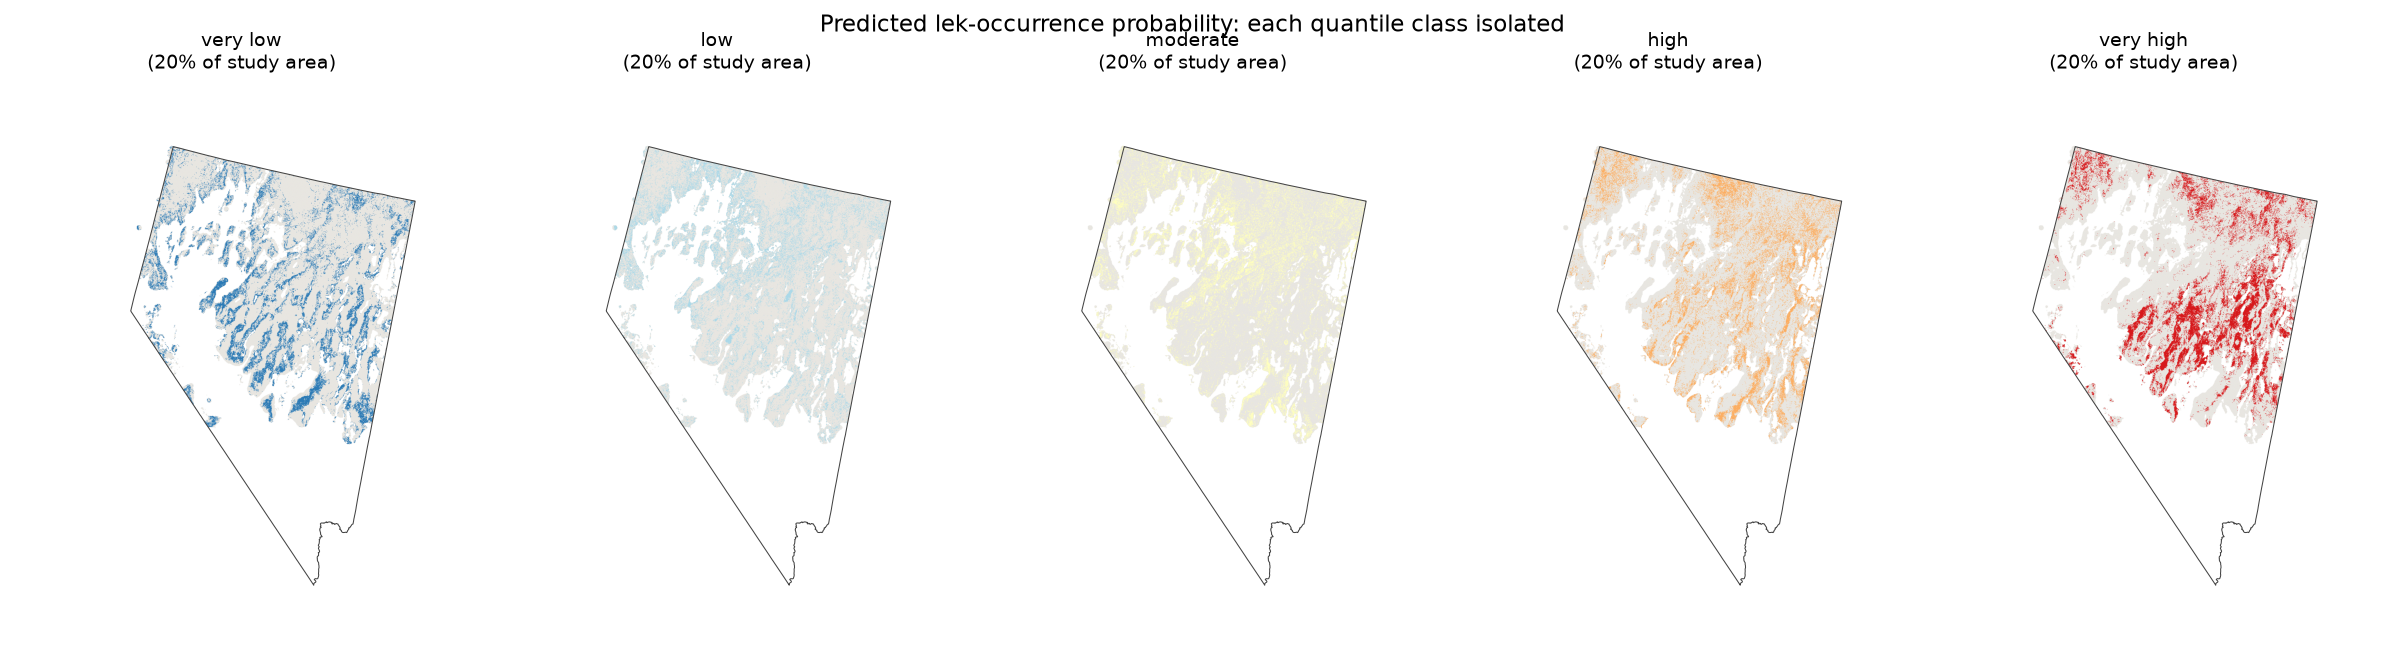
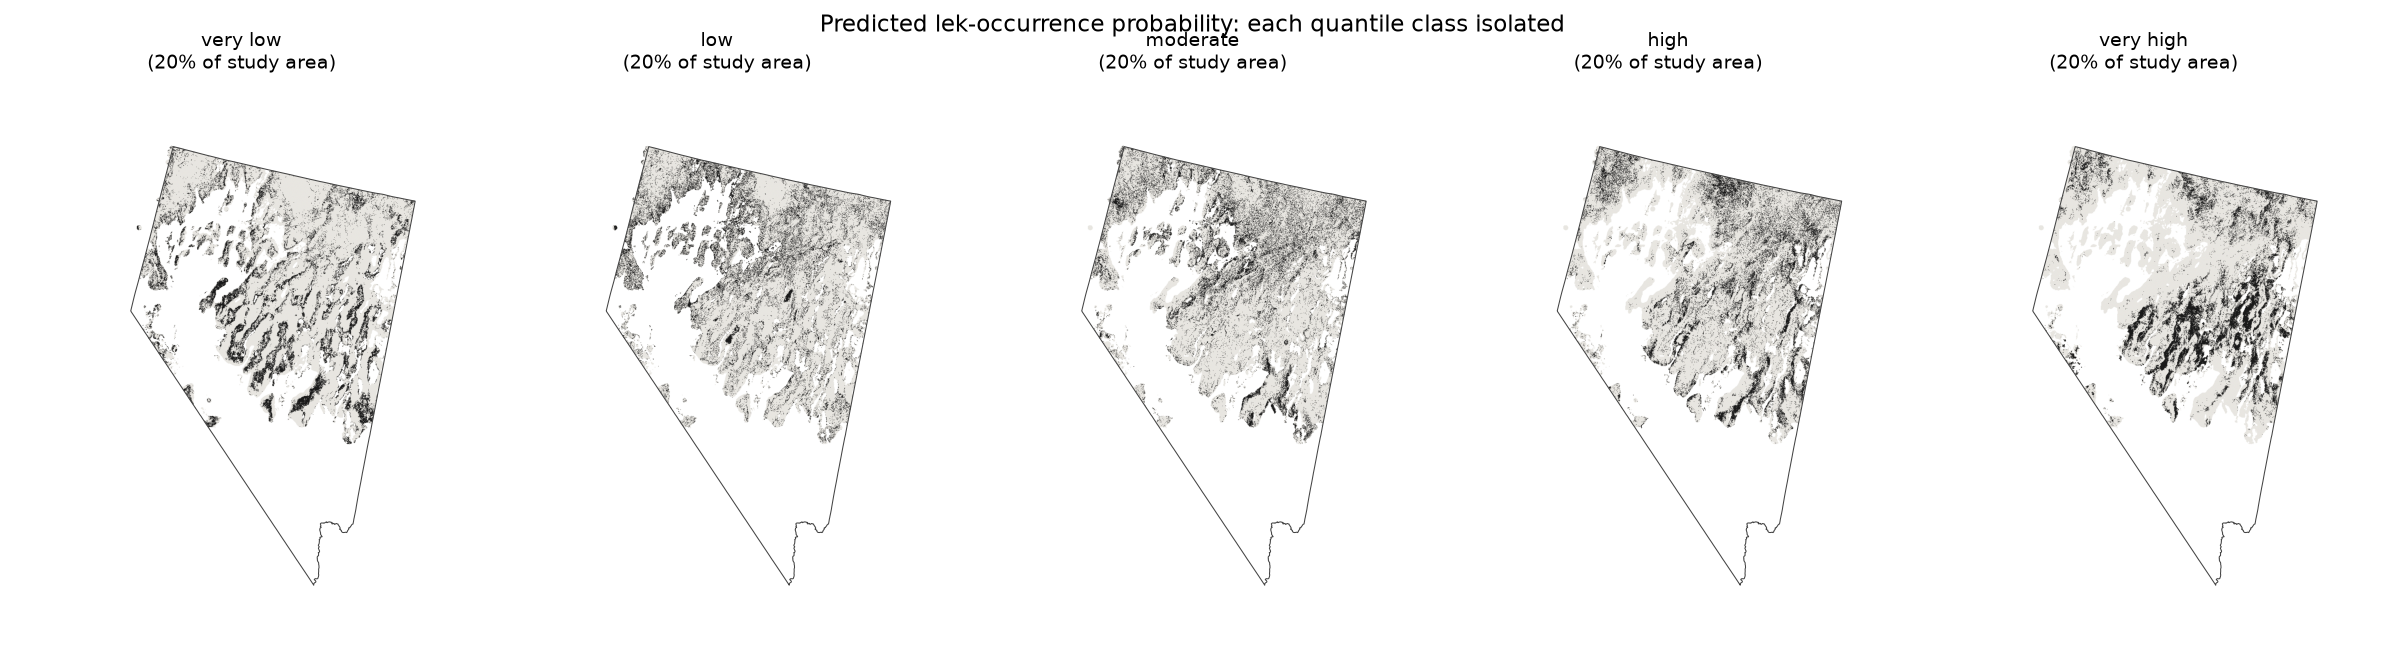
Bin small multiples: single-ink black for the isolated class (pale quantile colors invisible on gray base)

diff --git a/pipeline/map_panels.py b/pipeline/map_panels.py
@@ -145,7 +145,7 @@ for i, (ax, lab) in enumerate(zip(axes, labels5)):
     ax.imshow(base, cmap=ListedColormap(["#e8e6e1"]), vmin=0, vmax=1,
               extent=(bnd.left, bnd.right, bnd.bottom, bnd.top))
     solo = np.where(bin_state_sa == i, 1.0, np.nan)
-    ax.imshow(solo, cmap=ListedColormap([COLORS[i]]), vmin=0, vmax=1,
+    ax.imshow(solo, cmap=ListedColormap(["#1a1a1a"]), vmin=0, vmax=1,
               extent=(bnd.left, bnd.right, bnd.bottom, bnd.top))
     nv.boundary.plot(ax=ax, color="#444", linewidth=0.5)
     ax.set_axis_off()
